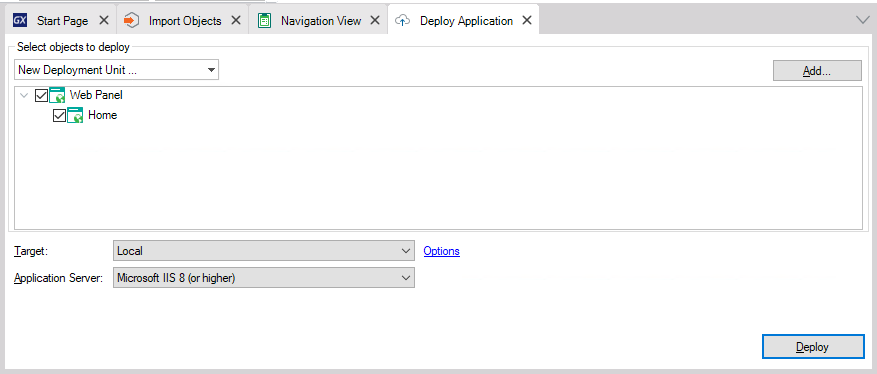
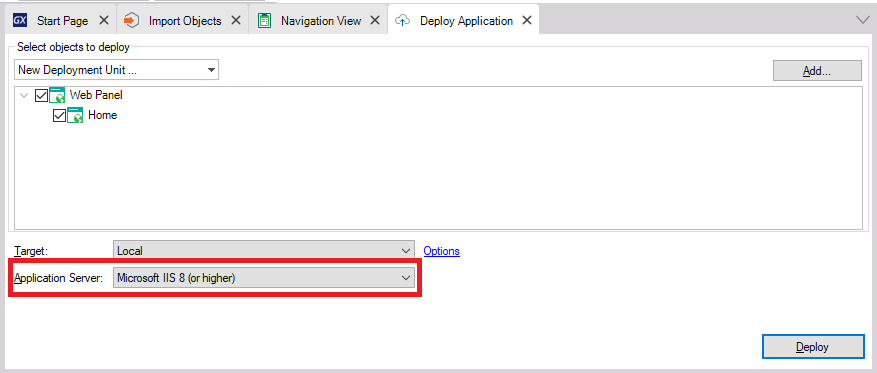
atividade 2

diff --git a/atividades/02-atividade.md b/atividades/02-atividade.md
@@ -2,7 +2,7 @@
 
 Nesta atividade vamos criar uma KB Genexus e instalar a aplicação gerada na VM no Azure.
 
-## Criação da KB Genexus
+### Criação da KB Genexus
 
 Crie o uma KB com o Genexus 16 e importe o xpz abaixo:
 
@@ -18,7 +18,9 @@ Executar a aplicação para verificar se a aplicação foi gerada de modo corret
 
 ![Aplicação executando](../imagens/Kbgx3.png)
 
-Agora vamos criar os pacotes de deploy, no menu Build do Genexus, clicar na opção **Export Reoganization**.
+Agora vamos criar os pacotes de deploy, no menu Build do Genexus, clicar na opção **Export Reoganization**. Mais informações no link abaixo:
+
+- [Export Reorganization](https://wiki.genexus.com/commwiki/servlet/wiki?34476,Export+Reorganization)
 
 ![Export reorg](../imagens/Kbgx4.png)
 
@@ -26,14 +28,92 @@ Marcar a opção Trusted Connection e clicar em **Zip It!**.
 
 ![Gerar zip](../imagens/Kbgx5.png)
 
-Será gerado o um zip com os programas de reorganização.
+Será gerado um arquivo zip com os programas de reorganização.
 
 ![Reorg prog](../imagens/Kbgx6.png)
 
-Agora vamos gerar o pacote de deploy da aplicação ASP.NET, no menu Build do Genexus, clicar na opção **Deploy Application**.
+Agora vamos gerar o pacote de deploy da aplicação ASP.NET, no menu Build do Genexus, clicar na opção **Deploy Application**. Mais informações no link abaixo:
+
+- [Application Deployment tool](https://wiki.genexus.com/commwiki/servlet/wiki?32092,Application+Deployment+tool)
 
 ![Deploy app](../imagens/Kbgx7.png)
 
+Selecionar o Main program **Home** e selecionar a opção **Microsoft IIS 8 (or higher)** no campo **Application Server**, e clicar em **Deploy**.
+
+![deploy IIS](../imagens/Kbgx8.png)
+
+Será gerado um arquivo zip com os programas da aplicação.
+
+![Zip app](../imagens/Kbgx9.png)
+
+Conectar na VM do Azure usando o arquivo RDP, crie uma pasta temp no c:\ e copiar os arquivos de zip gerados.
 
 
+### Configuração do ambiente
 
+Vamos configurar as variáveis de ambiente para informar aos programas genexus os dados de conexão ao banco de dados. Mais informações sobre como o Genexus usa variáveis de ambiente no link abaixo:
+
+- [Application Configuration using Environment Variables](https://wiki.genexus.com/commwiki/servlet/wiki?39459,Application+Configuration+using+Environment+Variables)
+
+No Explorer, clicar com o botão direito do mouse no Computer e selecionar a opção **Properties**.
+
+![computer properties](../imagens/Envvar1.png)
+
+Clicar na opção **Advanced system settings**.
+
+![Advanced System Settings](../imagens/Envvar2.png)
+
+Clicar em **Environment Variables**.
+
+![Env Var](../imagens/Envvar3.png)
+
+Vamos criar as varíaveis de ambiente clicando em **New** na seção **System Variables**.
+
+![Sys Var](../imagens/Envvar4.png)
+
+Criar as seguintes variáveis
+
+| Variável de ambiente | Valor |
+| --- | --- |
+| GX_Connection-Default-Datasource  | SERVIDORWEB\SQLEXPRESS  |
+| GX_Connection-Default-User  | sa  |
+| GX_Connection-Default-Password | sa!2016 |
+| GX_Connection-Default-DB | DemoDevOps |
+
+Vamos executar agora a reorganização da base de dados, descompacte o arquivo zip da reog.
+
+![Reorg](../imagens/Envvar5.png)
+
+No Explorer digitar **cmd** para abrir um console de linha de comando.
+
+![Reorg](../imagens/Envvar6.png)
+
+Na linha de comando digitar a seguinte instrução **reor.exe -nogui -force** para executar a reorganização da base de dados.
+
+![Reorg](../imagens/Envvar8.png)
+
+Com isso a base de dados foi criada.
+
+![Reorg](../imagens/Envvar9.png)
+
+Agora vamos descompactar a aplicação web e copiar para dentro do IIS. Após descompactar o arquivo, selecione todos os arquivos de dentro da pasta, e copie para a pasta **C:\inetpub\wwwroot**.
+
+![descompactar app](../imagens/Envvar10.png)
+
+![copia app](../imagens/Envvar11.png)
+
+Reiniciar a VM para que o IIS reconheça as variáveis de ambiente que foram configuradas.
+
+![Reiniciar VM](../imagens/Envvar12.png)
+
+Após a reinicialização da VM, copie o IP público da VM.
+
+![IP VM](../imagens/Envvar13.png)
+
+Abra um browser, cole no browser o IP e complete com o **/home.aspx**.
+
+![app no browser](../imagens/Envvar14.png)
+
+Navegue na aplicação, e crie um registro para verificar se a conexão com o SQL está OK.
+
+![app no browser](../imagens/Envvar15.png)

diff --git a/README.md b/README.md
@@ -8,4 +8,4 @@ Para este Hands-On vamos utilizar o Azure para criar os ambientes de testes e o 
 
 - [Instruções para a criação das contas](pdfs/Contas_Azure_e_Azure_DevOps.pdf)
 
-Próximo: [Atividade 01](atividades/01-atividade.md)
+Próxima atividade: [Atividade 01](atividades/01-atividade.md)

diff --git a/atividades/01-atividade.md b/atividades/01-atividade.md
@@ -182,3 +182,4 @@ Com isso o IIS está acessível, para testar, vá até o painel da VM e copie o 
 
 ![IIS](../imagens/firewall3.png)
 
+Próxima atividade: [Atividade 02](atividades/02-atividade.md)
